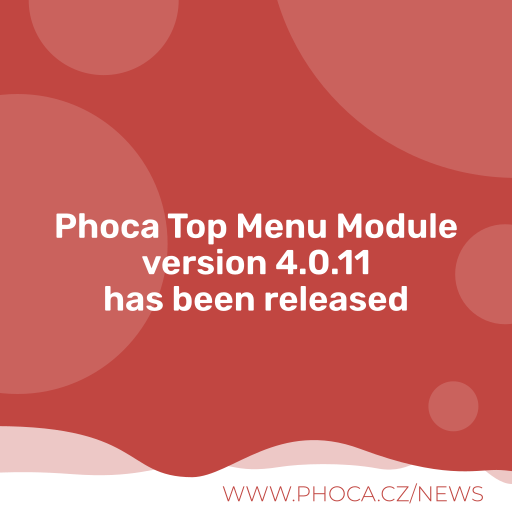
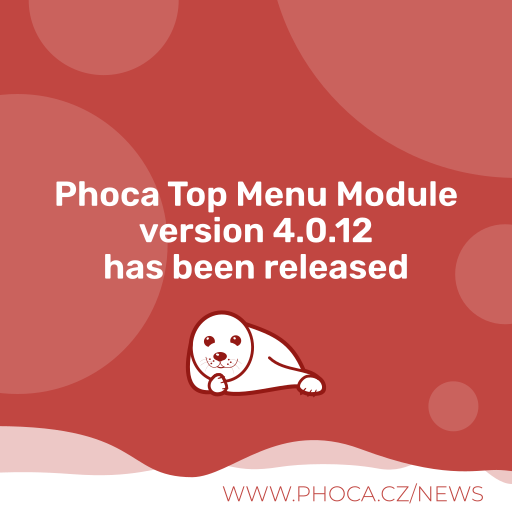
4.0.12

Changed region(s): [[0.0938, 0.3438, 0.9062, 0.7812]]

diff --git a/README.MD b/README.MD
@@ -50,7 +50,7 @@ Phoca Top Menu Module - a Joomla! CMS module which displays horizontal top menu 
 
 ## Version (Joomla! 4.x)
 
-4.0.11
+4.0.12
 
 
 
